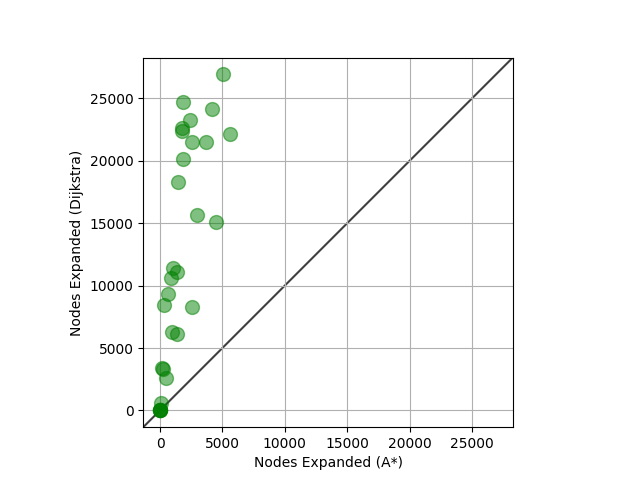
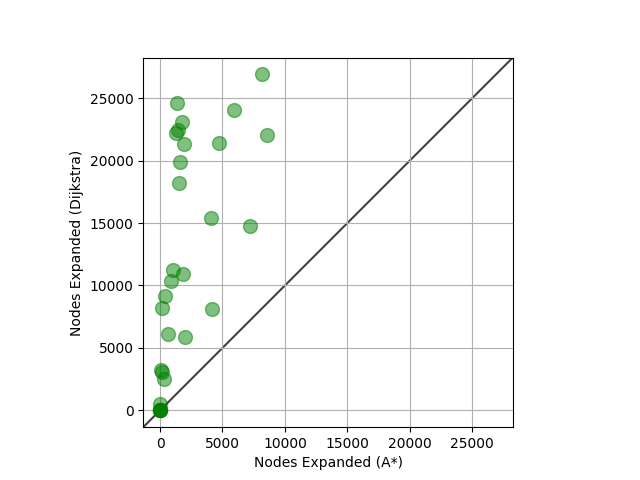
re-coded for node expanded count

diff --git a/main.py b/main.py
@@ -51,18 +51,21 @@ def main():
         yDiff = abs(y - goal.get_y())
         return 1.5 * min(xDiff, yDiff) + abs(xDiff - yDiff)
 
-    def Astar(start, goal):
+    def Astar(start, goal, transitionFunc):
 
         OpenArr = [[0, start]]
         ClosedArr = {start.state_hash(): [start, 0]}
 
+        nodesExpandedCount = 0
         while OpenArr:
+            nodesExpandedCount +=1
             node_g, node = heapq.heappop(OpenArr)
 
             if node == goal:
-                return ClosedArr[goal.state_hash()][1], len(ClosedArr)
+                return ClosedArr[goal.state_hash()][1], nodesExpandedCount
 
-            for childNode in gridded_map.successors(node):
+
+            for childNode in transitionFunc.successors(node):
                 child_g = childNode.get_g()
                 child_h = OctileDistance(childNode.get_x(), childNode.get_y(), goal)
 
@@ -76,17 +79,18 @@ def main():
 
         return -1, -1
 
-    def Dijkstra(start, goal):
+    def Dijkstra(start, goal, transitionFunc):
         OpenArr = [[0, start]]
         ClosedArr = {start.state_hash(): [start, 0]}
-
+        nodesExpandedCount = 0
         while OpenArr:
+            nodesExpandedCount +=1
             node_g, node = heapq.heappop(OpenArr)
 
             if node == goal:
-                return ClosedArr[goal.state_hash()][1], len(ClosedArr)
+                return ClosedArr[goal.state_hash()][1], nodesExpandedCount
 
-            for childNode in gridded_map.successors(node):
+            for childNode in transitionFunc.successors(node):
                 child_g = childNode.get_g()
 
                 if childNode.state_hash() not in ClosedArr:
@@ -104,7 +108,7 @@ def main():
         goal = goal_states[i]
 
         time_start = time.time()
-        cost, expanded_diskstra = Dijkstra(start, goal)  # replace None, None with the call to your Dijkstra's
+        cost, expanded_diskstra = Dijkstra(start, goal, gridded_map)  # replace None, None with the call to your Dijkstra's
         # implementation
         time_end = time.time()
         nodes_expanded_dijkstra.append(expanded_diskstra)
@@ -124,7 +128,7 @@ def main():
         goal = goal_states[i]
 
         time_start = time.time()
-        cost, expanded_astar = Astar(start, goal)  # replace None, None with the call to your A* implementation
+        cost, expanded_astar = Astar(start, goal, gridded_map)  # replace None, None with the call to your A* implementation
         time_end = time.time()
 
         nodes_expanded_astar.append(expanded_astar)
